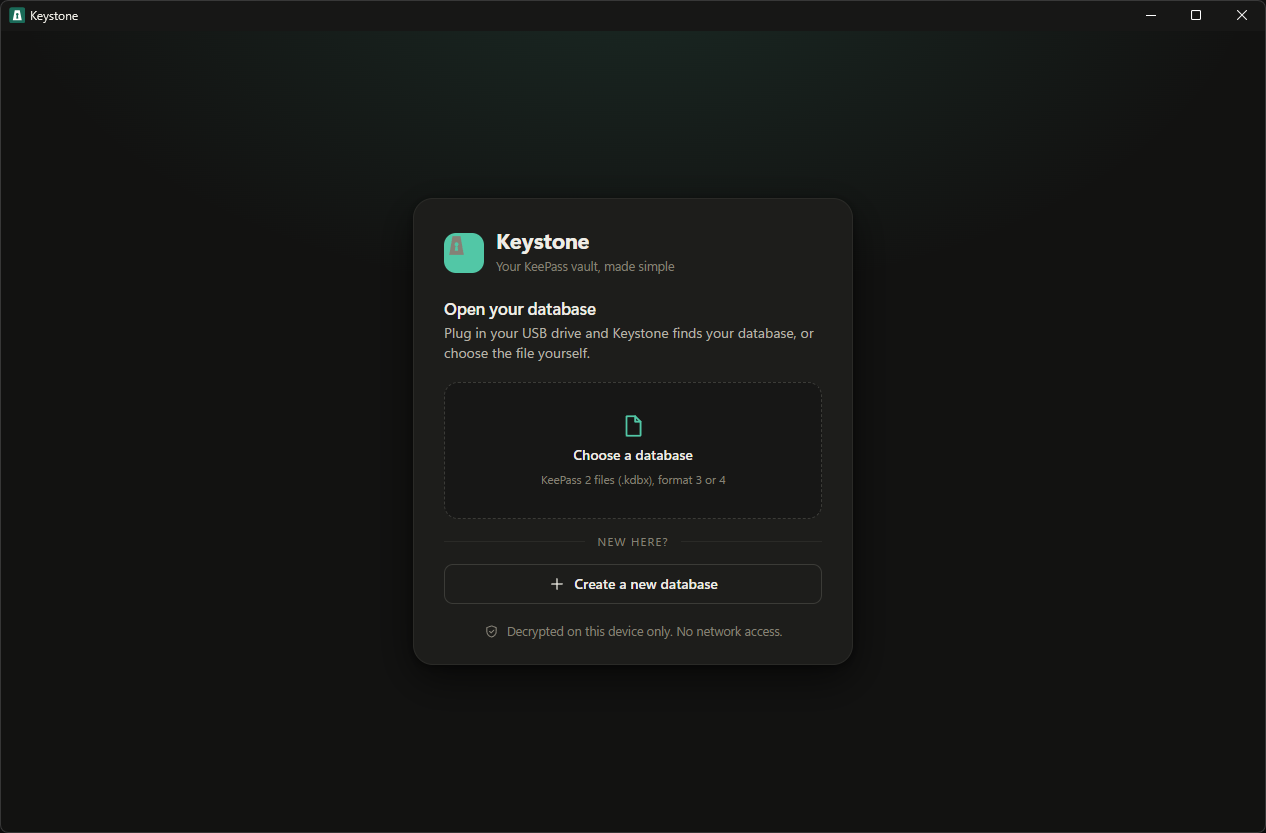
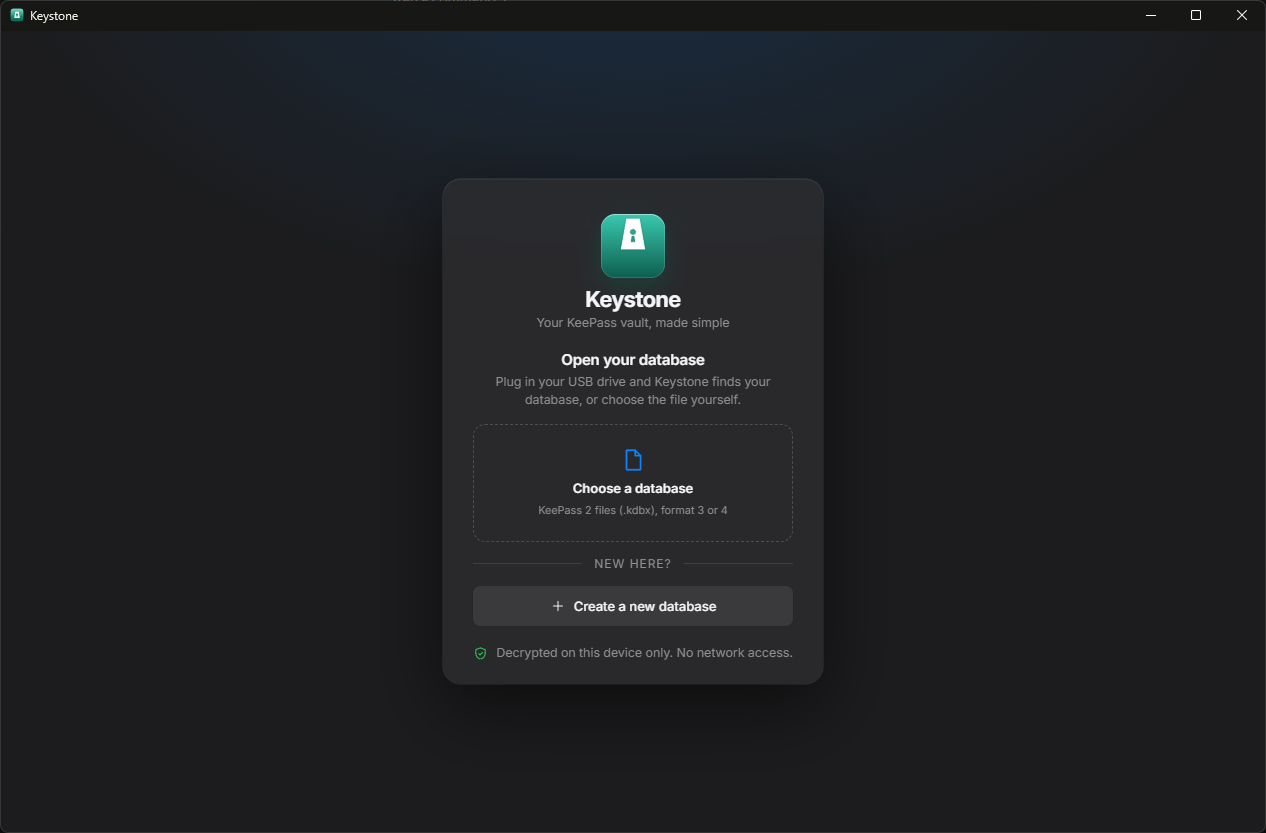
readme update

Changed region(s): [[0.3389, 0.2185, 0.6469, 0.8427], [0.0, 0.0, 0.0308, 0.0312]]

diff --git a/README.md b/README.md
@@ -10,6 +10,7 @@ Keystone gives your KeePass database a calmer, friendlier interface. It reads an
 
 ## Highlights
 
+- **Feels like a Mac app.** A macOS-style design: source-list sidebar, grouped forms, Apple's system colours, the Inter typeface, a squircle app icon, and quiet, purposeful animations that respect your system's reduced-motion setting. The installer matches.
 - **Works with KeePass.** Opens and saves KeePass 2 databases (KDBX 3 and 4), with a password, a key file (`.keyx` / `.key`), or both. Nothing to import or convert: you open your `.kdbx` where it is.
 - **New here? Create a database in a minute.** Pick a name and a place, choose a password and/or a key file, and Keystone makes a modern KeePass database (Argon2id, AES-256) with starter groups and a short welcome note.
 - **USB-drive friendly.** Keep `Database.kdbx` and `Database.keyx` on a USB stick and install Keystone on every computer you use. Plug the stick in and Keystone finds the database and key file on its own, even when Windows gives the stick a different drive letter.
@@ -19,7 +20,7 @@ Keystone gives your KeePass database a calmer, friendlier interface. It reads an
 - **Private by design.** The app makes no network connections at all (see [SECURITY.md](SECURITY.md)).
 
 <p>
-  <img src="docs/screenshots/3-welcome.png" width="49%" alt="A new database with its welcome entry">
+  <img src="docs/screenshots/3-vault.png" width="49%" alt="An open vault in the dark theme">
   <img src="docs/screenshots/4-light.png" width="49%" alt="The light theme">
 </p>
 
@@ -33,7 +34,11 @@ Keystone gives your KeePass database a calmer, friendlier interface. It reads an
    ```
 
    The result must match the SHA-256 listed in the release notes.
-3. Run it and press **Install**. No administrator rights are needed; it installs for your user.
+3. Run it, choose whether to add a desktop shortcut and the "Open with Keystone" option for `.kdbx` files, and press **Install**. No administrator rights are needed; it installs for your user. The installer follows your light or dark theme.
+
+<p align="center"><img src="docs/screenshots/5-installer.png" width="360" alt="The Keystone installer"></p>
+
+For scripted installs: `Keystone-Setup-1.0.0.exe /S` installs silently (add `/nodesktop`, `/noassoc`, or `/D=C:\Where\To\Install`, which must come last).
 
 **Windows may warn you.** The installer is not code-signed yet, so SmartScreen can show "Windows protected your PC" (choose *More info → Run anyway*), and on PCs with Smart App Control turned on it may be blocked. Signing needs a paid certificate; see [Code signing](docs/releasing.md#code-signing).
 
@@ -90,11 +95,11 @@ powershell -ExecutionPolicy Bypass -File windows\build-windows.ps1
 powershell -ExecutionPolicy Bypass -File windows\installer\build-installer.ps1
 ```
 
-The first script bundles the interface (`src/`) into `build\Keystone.html`, then embeds it, together with Microsoft's WebView2 helper libraries from `windows\lib`, into the native host `windows\Program.cs`. The second embeds `Keystone.exe` into the installer `windows\installer\Setup.cs`.
+The first script bundles the interface (`src/`) into `build\Keystone.html`, then embeds it, together with Microsoft's WebView2 helper libraries from `windows\lib`, into the native host `windows\Program.cs`. The second generates the app icon (`windows\make-icon.ps1`) and embeds it, together with `Keystone.exe`, into the installer `windows\installer\Setup.cs`.
 
 | Folder | What is in it |
 |---|---|
-| `src/` | The interface: KDBX reader/writer (`kdbx.js`), key derivation worker (`worker.js`), vault model (`vault.js`), screens (`app*.js`, `create.js`), styles |
+| `src/` | The interface: KDBX reader/writer (`kdbx.js`), key derivation worker (`worker.js`), vault model (`vault.js`), screens (`app*.js`, `create.js`), styles, and the bundled Inter font (`fonts/`, SIL OFL) |
 | `windows/` | The Windows host (window, file dialogs, clipboard, USB detection), the installer, the icon generator, WebView2 libraries |
 | `tests/` | Compatibility tests against the real KeePass library |
 | `docs/` | Architecture notes, the host bridge, release steps, screenshots |
